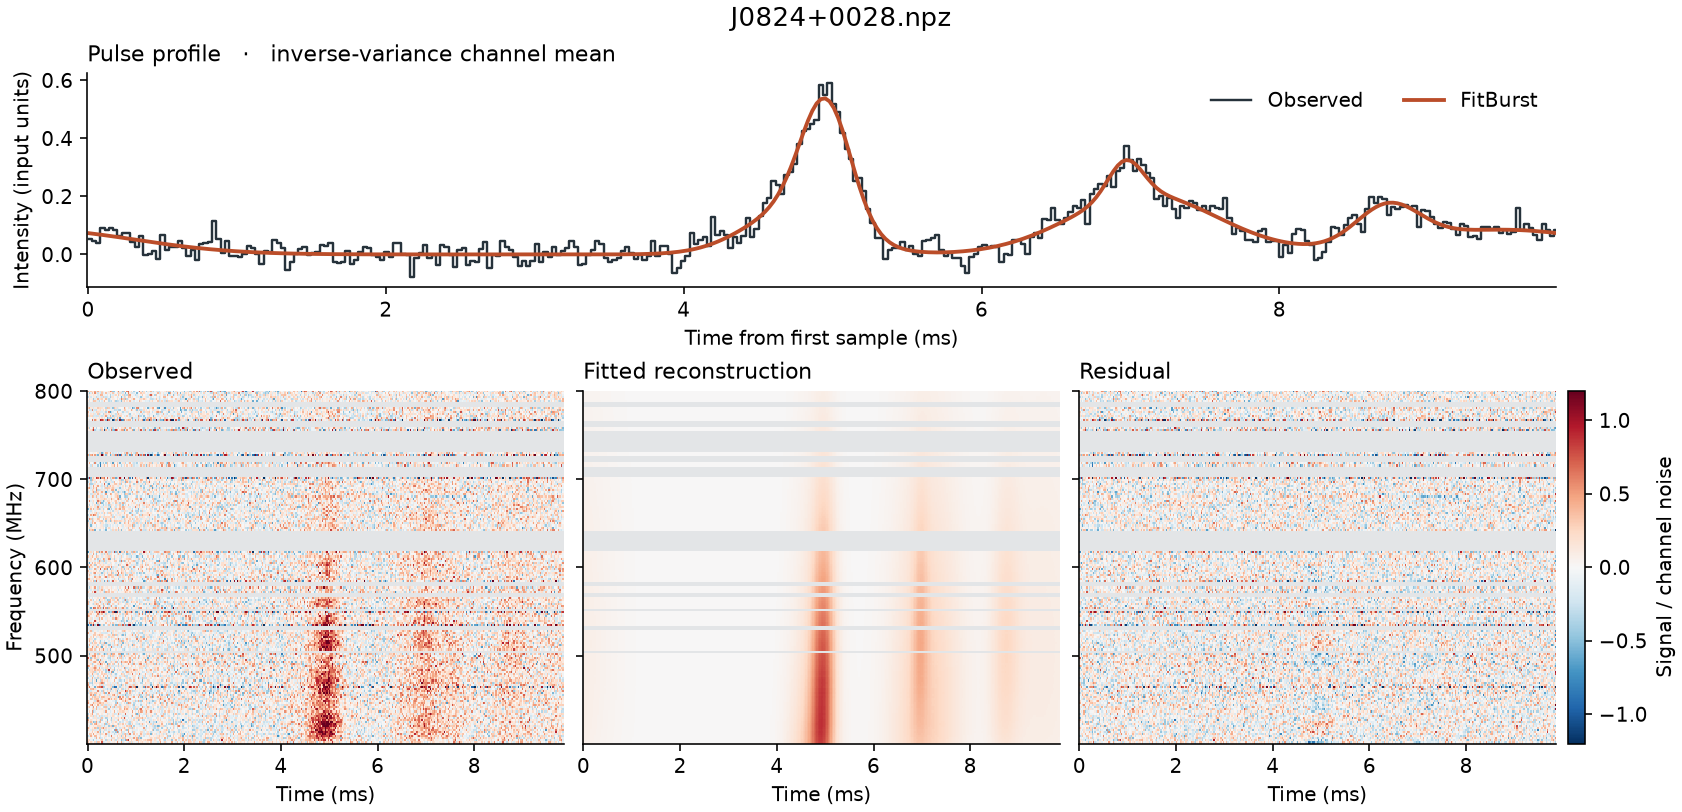
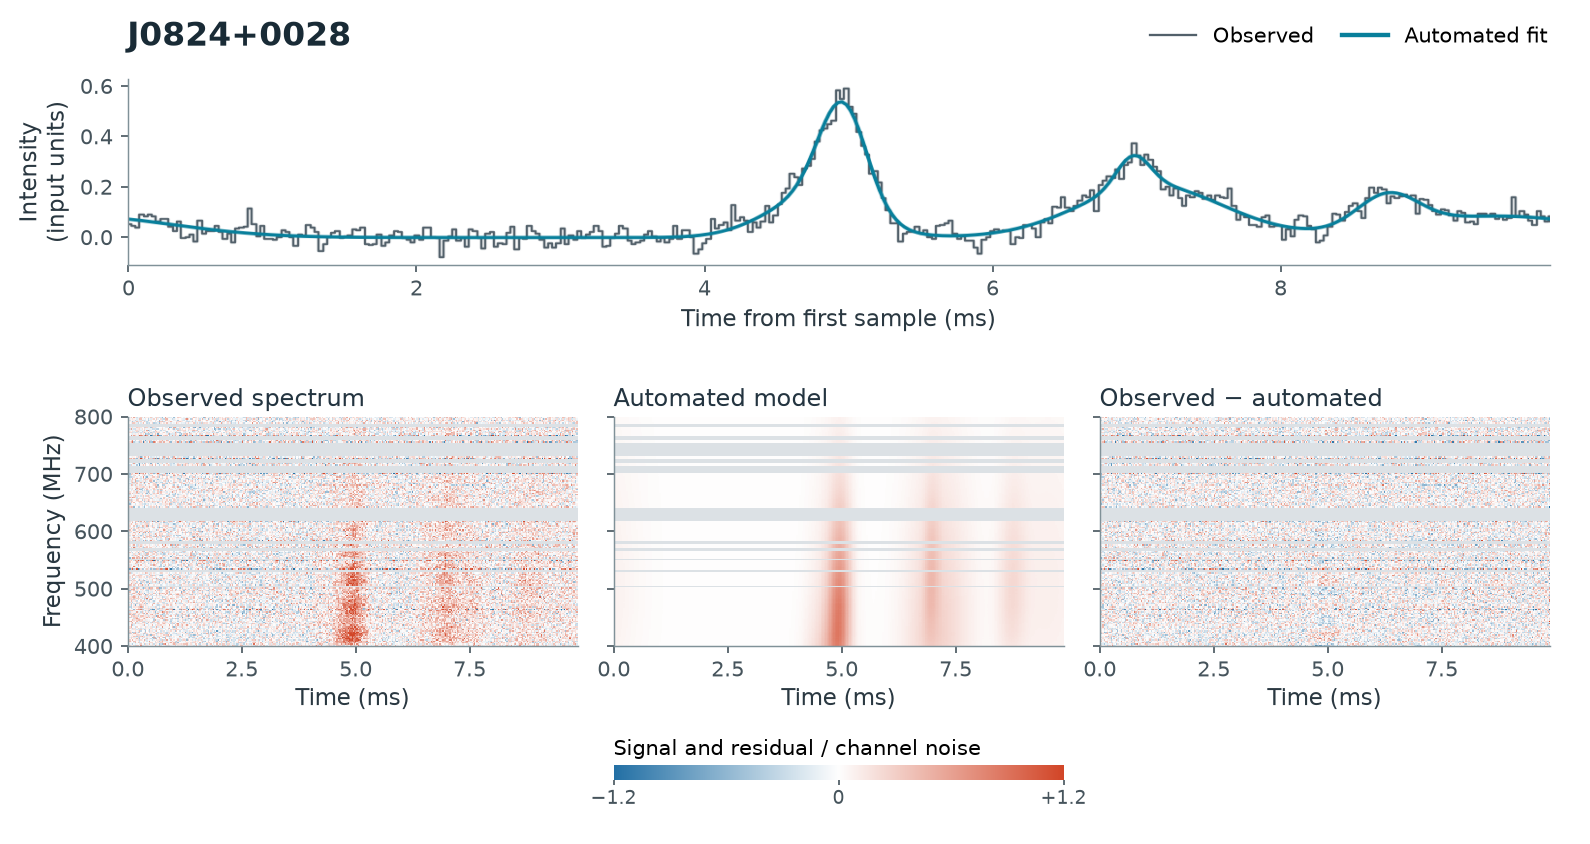
Show model spectra and residuals throughout the example gallery

diff --git a/README.md b/README.md
@@ -14,29 +14,31 @@ python -m burstsurveyor verify run
 
 `run/results.json` records the fit status, component count and scores for each observation. For an exported fit, the `prediction` field gives the path to the reconstructed array relative to `run`. To fit several observations, pass a directory of [NPZ files](docs/reference.md) in place of the example. Use a new output directory for each run.
 
-## Burst examples
+The example contains pulses centred at 24.5 and 36.5 ms. The fit recovers two components. The later pulse is strongest at lower frequencies.
 
-The BaseCat2 examples show the observed pulse profile, the automated fit and a human reference on the same time grid. The lower panel shows the observed intensity minus each model. Model components can overlap in time and frequency, so they should not automatically be interpreted as separate physical pulses.
+![Two-pulse synthetic observation, automated profile and model spectrum, and observed minus modeled intensity.](examples/two-pulse-fit.png)
+
+## Fast radio burst examples
+
+The three BaseCat2 examples compare the automated fit with a human reference on the same time grid. Each figure shows the pulse profiles, the observed dynamic spectrum, both model spectra and the residuals (observed minus modeled intensity). Gray bands mark masked channels. Model components can overlap in time and frequency, so they should not automatically be interpreted as separate physical pulses.
 
 ### Event 156410110
 
 Both fits follow the main peaks. The automated fit uses six components and follows the smaller peak near 16.5 ms more closely than the five-component human reference.
 
-![Observed profile and residuals for event 156410110. The human reference leaves a positive residual near 16.5 ms.](examples/event-156410110-comparison.png)
-
-[Observed spectrum, fitted reconstruction and residuals for event 156410110](examples/real-multipulse.png)
+![Observed profile and residuals for event 156410110. Both model spectra and their residuals are shown below the profiles.](examples/event-156410110-comparison.png)
 
 ### Event 300938875
 
 The automated fit recovers a peak near 3.2 ms that is absent from the saved human reference candidate. The atlas records no final human selection for this event. The weaker feature near 4.6 ms remains uncertain.
 
-![Observed profile and residuals for event 300938875. Two peaks are visible near 3 ms and the reference candidate follows only the first.](examples/event-300938875-comparison.png)
+![Observed profile and residuals for event 300938875. The residual spectrum of the human reference candidate shows a missed peak near 3.2 ms.](examples/event-300938875-comparison.png)
 
 ### Event 1114368517
 
 Both fits use one component and give similar pulse profiles. At 600 MHz, the automated fit selects zero scattering and the human reference gives 0.123 ms. The time bin is 0.655 ms.
 
-![Observed profile and residuals for event 1114368517. The two fitted profiles nearly coincide.](examples/event-1114368517-comparison.png)
+![Observed profile and residuals for event 1114368517. The profiles and model spectra nearly coincide.](examples/event-1114368517-comparison.png)
 
 ### FRB 20190412A
 
@@ -52,9 +54,7 @@ The observed pulse profile and spectrum are shown alongside the fitted reconstru
 
 The two fits follow the main pulse and interpulse. The largest difference between the profiles occurs near the rotation boundary.
 
-![Folded profile of J1849+0409 over one rotation with the automated fit, human reference and residuals.](examples/pulsar-j1849-0409-comparison.png)
-
-[Observed spectrum, fitted reconstruction and residuals for J1849+0409](examples/pulsar-j1849-0409.png)
+![J1849+0409 over one rotation. The profiles include the human reference. The spectral panels show the observation, automated model and residual.](examples/pulsar-j1849-0409-comparison.png)
 
 ### J0824+0028
 

diff --git a/docs/guide.md b/docs/guide.md
@@ -20,6 +20,12 @@ The default mode fits dedispersed bursts without periodic wrapping. Supply one [
 
 `run/results.json` contains one entry per observation. For an exported fit, the entry gives the component count, scattering model, fit scores and path to the prediction NPZ. Modeled intensity is `prediction + baseline[:, None]` on the original pixels. An entry without an export records the status and reasons. The [reference](reference.md#export) describes the arrays and units.
 
+For the bundled example, the two-component reconstruction is shown in the [README](../README.md#fit-an-observation). To plot the exported fit from this run, use the event ID from `results.json`.
+
+```sh
+python -m burstsurveyor plot run --event 179014e0591b80d892ece0ac --input examples/two-pulse.npz --out two-pulse-fit.png
+```
+
 ## Folded pulsar profiles
 
 For a profile covering one complete rotation, include the period in seconds as `period_s` in the acquisition metadata and select [pulsar mode](selection.md#pulsar-profiles).
